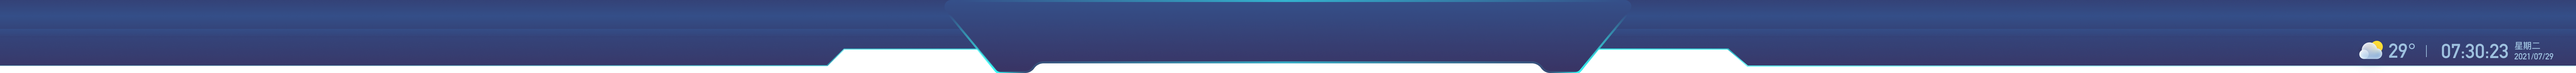
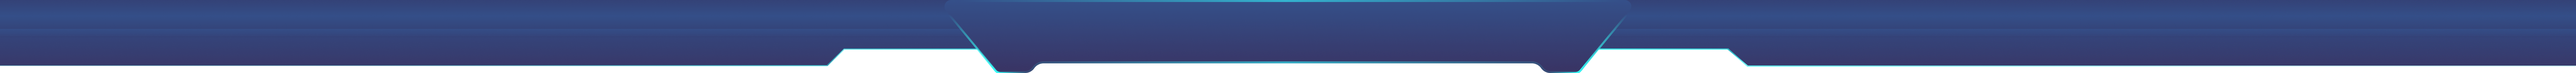
feat: 更新头部图片

Changed region(s): [[0.9062, 0.5727, 1.0, 0.8182]]

diff --git a/packages/command-cabin/src/components/Header/Index.vue b/packages/command-cabin/src/components/Header/Index.vue
@@ -1,5 +1,206 @@
 <template>
-  <div class="app-header"><h1>冠寓总指挥中心</h1></div>
+  <div class="app-header">
+    <h1>冠寓总指挥中心</h1>
+    <!-- <svg
+      width="7680"
+      height="220"
+      viewBox="0 0 7680 220"
+      fill="none"
+      xmlns="http://www.w3.org/2000/svg"
+    >
+      <g opacity="0.8" clip-path="url(#clip0)">
+        <path
+          fill-rule="evenodd"
+          clip-rule="evenodd"
+          d="M7680 0H0V198H2468L2515.72 148H5148.85L5212 198H7680V0Z"
+          fill="url(#paint0_linear)"
+        />
+        <rect
+          opacity="0.8"
+          width="7680"
+          height="87"
+          fill="url(#paint1_linear)"
+        />
+        <g opacity="0.8" filter="url(#filter0_d)">
+          <rect
+            y="87"
+            width="7680"
+            height="22"
+            fill="url(#paint2_linear)"
+            shape-rendering="crispEdges"
+          />
+        </g>
+        <path
+          d="M0 198H2466L2517 148H5152L5210 199H7678"
+          stroke="url(#paint3_linear)"
+          stroke-width="4"
+        />
+        <path
+          d="M2822.69 30.7651C2813.6 19.6653 2821.5 3 2835.84 3H4843.85C4851.55 3 4857.69 7.96681 4859.95 14.5097L4862.78 13.5317L4859.95 14.5097C4861.16 18.0173 4860.56 21.6309 4858.77 25.478C4856.95 29.3749 4854.04 33.1863 4851.06 36.9234L4725.33 194.48C4723.76 196.451 4722.33 198.555 4720.98 200.597C4720.71 201.004 4720.44 201.407 4720.18 201.806C4719.1 203.446 4718.05 205.028 4716.95 206.554C4714.23 210.344 4711.43 213.391 4707.83 215.198C4705.51 216.36 4702.91 217 4700.21 217H4622.25C4612.21 217 4602.81 212.064 4597.11 203.797C4590.29 193.906 4579.04 188 4567.02 188H3111.25C3099.24 188 3087.99 193.906 3081.17 203.797C3075.47 212.064 3066.07 217 3056.02 217H2983.12C2978.02 217 2973.19 214.711 2969.96 210.765L2822.69 30.7651Z"
+          fill="url(#paint4_linear)"
+          stroke="url(#paint5_linear)"
+          stroke-width="6"
+        />
+        <path
+          d="M4843.77 0C4860.64 0 4869.93 19.6062 4859.25 32.6648L4711.97 212.665C4708.18 217.307 4702.49 220 4696.49 220H4623.59C4612.56 220 4602.23 214.579 4595.97 205.5C4595.79 205.234 4595.6 204.972 4595.41 204.713"
+          stroke="url(#paint6_linear)"
+          stroke-width="6"
+        />
+        <path
+          d="M2835.84 0C2818.97 0 2809.68 19.6062 2820.36 32.6648L2967.64 212.665C2971.44 217.307 2977.12 220 2983.12 220H3056.02C3067.05 220 3077.38 214.579 3083.64 205.5C3083.82 205.234 3084.01 204.972 3084.2 204.713"
+          stroke="url(#paint7_linear)"
+          stroke-width="6"
+        />
+      </g>
+      <defs>
+        <filter
+          id="filter0_d"
+          x="-2"
+          y="87"
+          width="7684"
+          height="28"
+          filterUnits="userSpaceOnUse"
+          color-interpolation-filters="sRGB"
+        >
+          <feFlood flood-opacity="0" result="BackgroundImageFix" />
+          <feColorMatrix
+            in="SourceAlpha"
+            type="matrix"
+            values="0 0 0 0 0 0 0 0 0 0 0 0 0 0 0 0 0 0 127 0"
+            result="hardAlpha"
+          />
+          <feOffset dy="4" />
+          <feGaussianBlur stdDeviation="1" />
+          <feComposite in2="hardAlpha" operator="out" />
+          <feColorMatrix
+            type="matrix"
+            values="0 0 0 0 0.00392157 0 0 0 0 0.0745098 0 0 0 0 0.333333 0 0 0 1 0"
+          />
+          <feBlend
+            mode="normal"
+            in2="BackgroundImageFix"
+            result="effect1_dropShadow"
+          />
+          <feBlend
+            mode="normal"
+            in="SourceGraphic"
+            in2="effect1_dropShadow"
+            result="shape"
+          />
+        </filter>
+        <linearGradient
+          id="paint0_linear"
+          x1="4187"
+          y1="99"
+          x2="4187"
+          y2="198"
+          gradientUnits="userSpaceOnUse"
+        >
+          <stop stop-color="#01175B" />
+          <stop offset="0.968759" stop-color="#060745" />
+        </linearGradient>
+        <linearGradient
+          id="paint1_linear"
+          x1="3840"
+          y1="-15.5"
+          x2="3840"
+          y2="115.5"
+          gradientUnits="userSpaceOnUse"
+        >
+          <stop stop-color="#000C4B" />
+          <stop offset="0.489583" stop-color="#02256F" />
+          <stop offset="0.942708" stop-color="#000D4C" />
+        </linearGradient>
+        <linearGradient
+          id="paint2_linear"
+          x1="3840"
+          y1="87"
+          x2="3840"
+          y2="109"
+          gradientUnits="userSpaceOnUse"
+        >
+          <stop stop-color="#02246D" />
+          <stop offset="1" stop-color="#01216A" stop-opacity="0" />
+        </linearGradient>
+        <linearGradient
+          id="paint3_linear"
+          x1="48"
+          y1="198.974"
+          x2="7678"
+          y2="198.974"
+          gradientUnits="userSpaceOnUse"
+        >
+          <stop offset="0.133765" stop-color="#01C5D0" stop-opacity="0.2" />
+          <stop offset="0.543349" stop-color="#01F5F1" />
+          <stop offset="0.892314" stop-color="#01C5D0" stop-opacity="0.2" />
+        </linearGradient>
+        <linearGradient
+          id="paint4_linear"
+          x1="3839.84"
+          y1="0"
+          x2="3839.84"
+          y2="220"
+          gradientUnits="userSpaceOnUse"
+        >
+          <stop stop-color="#02246C" />
+          <stop offset="1" stop-color="#07003C" />
+        </linearGradient>
+        <linearGradient
+          id="paint5_linear"
+          x1="2838.81"
+          y1="87.5002"
+          x2="4827.31"
+          y2="91.5001"
+          gradientUnits="userSpaceOnUse"
+        >
+          <stop offset="0.0131516" stop-color="#01E7E7" stop-opacity="0" />
+          <stop
+            offset="0.499477"
+            stop-color="#00F5FF"
+            stop-opacity="0.593858"
+          />
+          <stop offset="1" stop-color="#01E7E7" stop-opacity="0" />
+        </linearGradient>
+        <linearGradient
+          id="paint6_linear"
+          x1="4833.31"
+          y1="24"
+          x2="4573.31"
+          y2="245"
+          gradientUnits="userSpaceOnUse"
+        >
+          <stop stop-color="#01F5F1" stop-opacity="0" />
+          <stop
+            offset="0.265077"
+            stop-color="#01F5F1"
+            stop-opacity="0.494147"
+          />
+          <stop offset="0.660232" stop-color="#01F5F1" />
+          <stop offset="0.852647" stop-color="#01F5F1" stop-opacity="0" />
+        </linearGradient>
+        <linearGradient
+          id="paint7_linear"
+          x1="2846.31"
+          y1="24"
+          x2="3106.31"
+          y2="245"
+          gradientUnits="userSpaceOnUse"
+        >
+          <stop stop-color="#01F5F1" stop-opacity="0" />
+          <stop
+            offset="0.265077"
+            stop-color="#01F5F1"
+            stop-opacity="0.494147"
+          />
+          <stop offset="0.660232" stop-color="#01F5F1" />
+          <stop offset="0.852647" stop-color="#01F5F1" stop-opacity="0" />
+        </linearGradient>
+        <clipPath id="clip0">
+          <rect width="7680" height="220" fill="white" />
+        </clipPath>
+      </defs>
+    </svg> -->
+  </div>
 </template>
 
 <script lang="ts">
